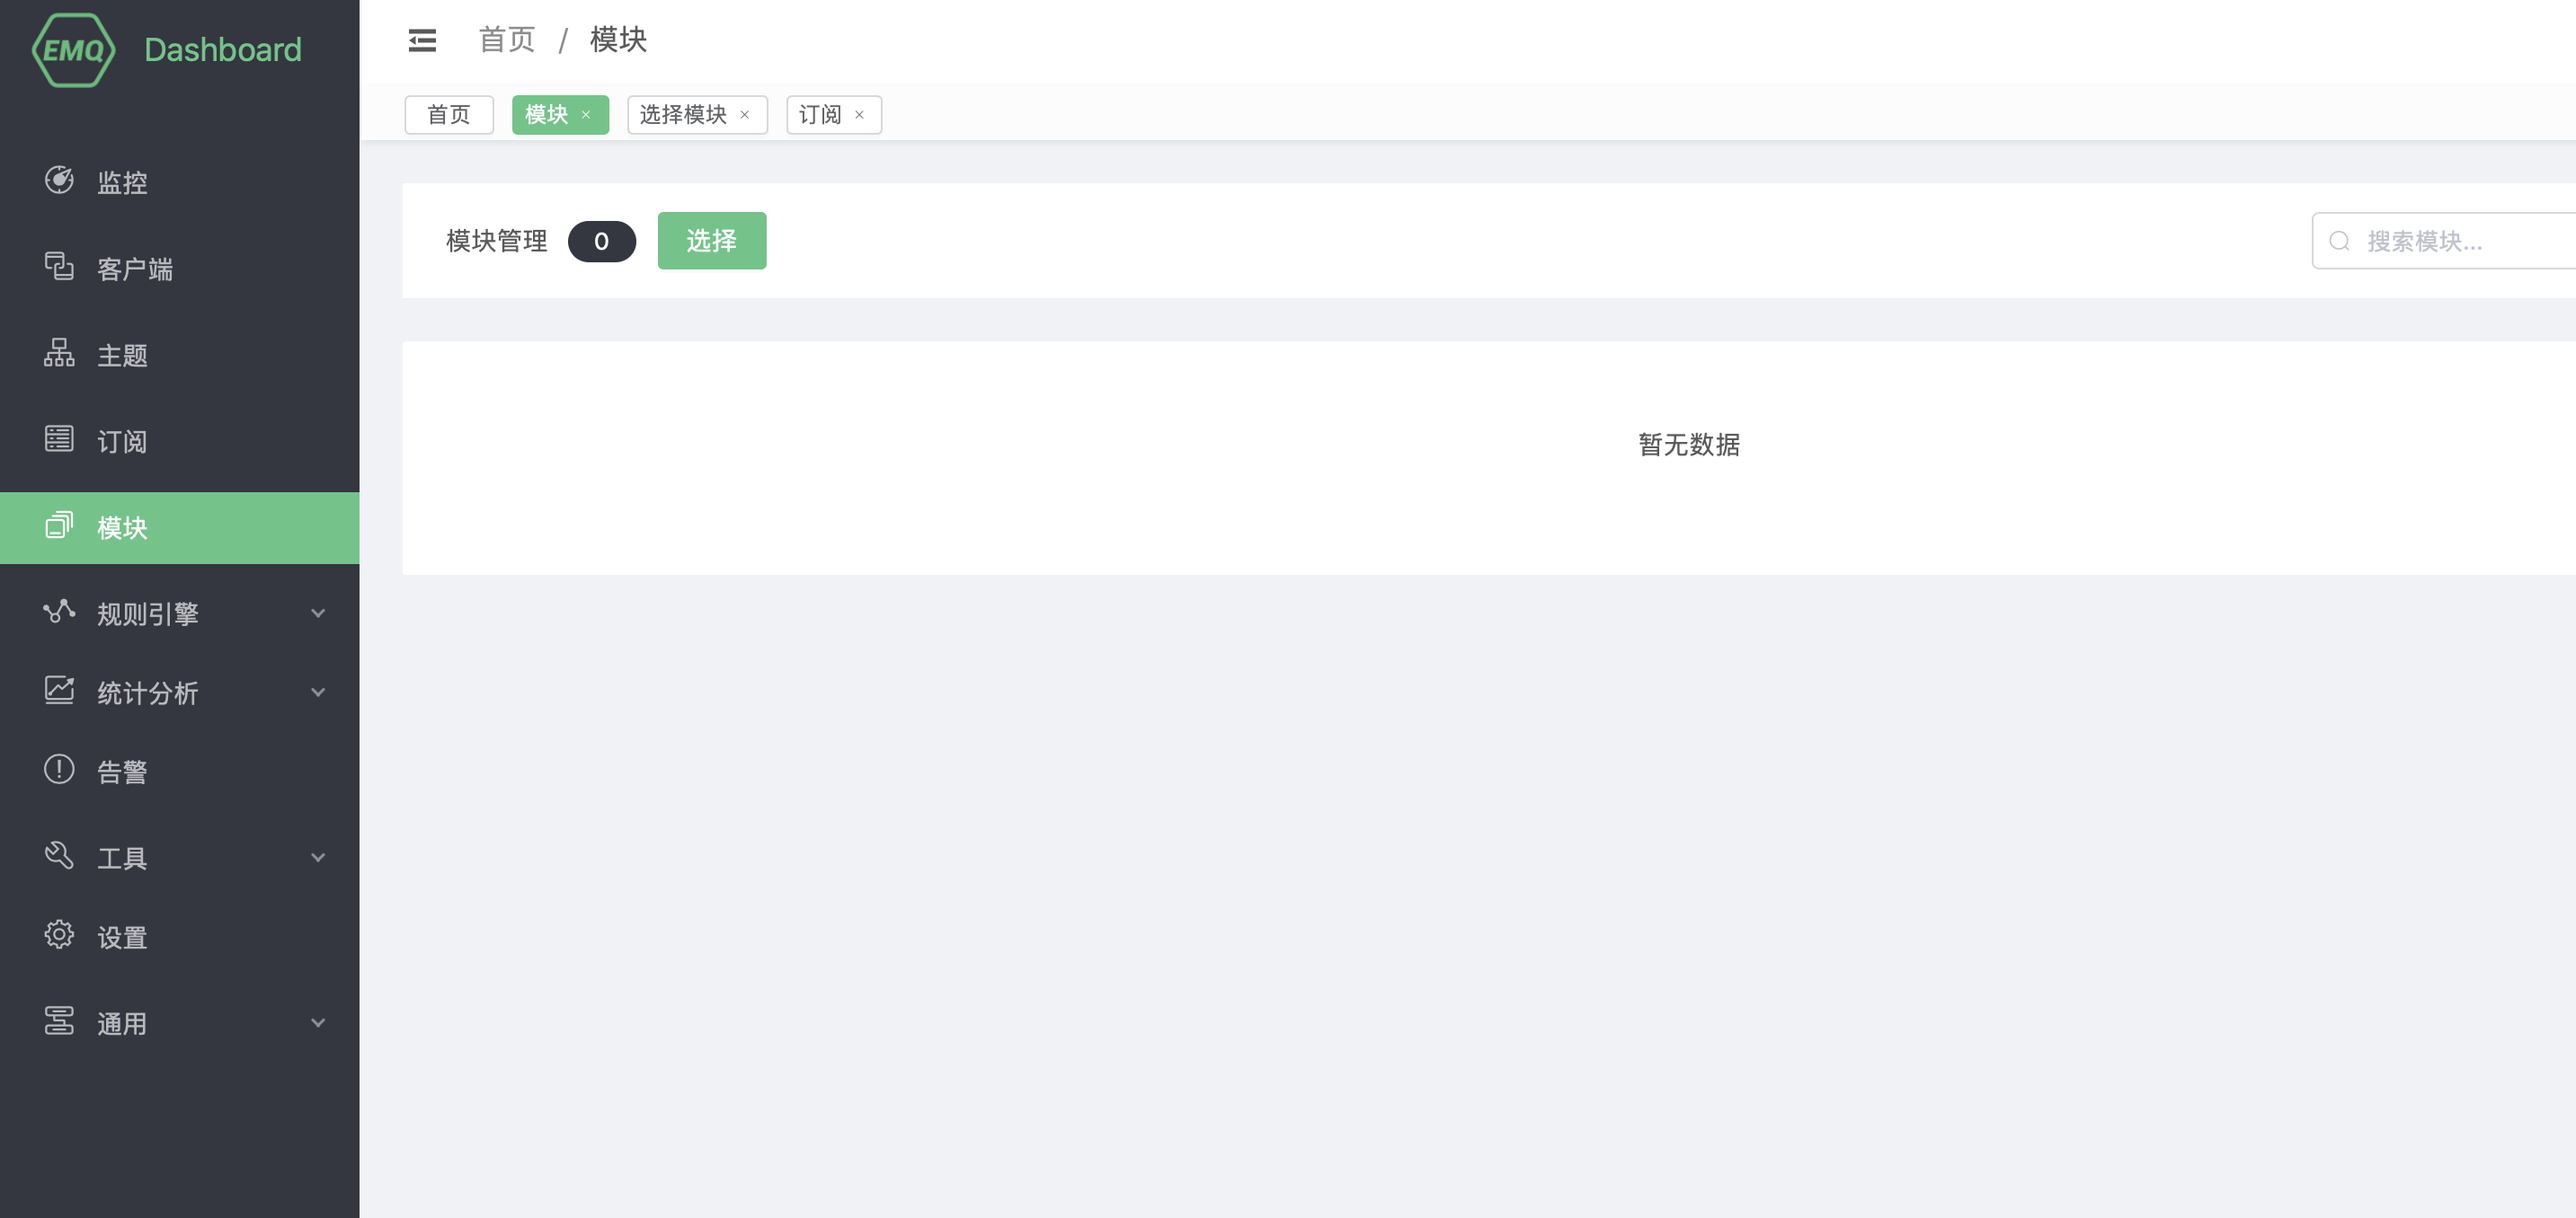
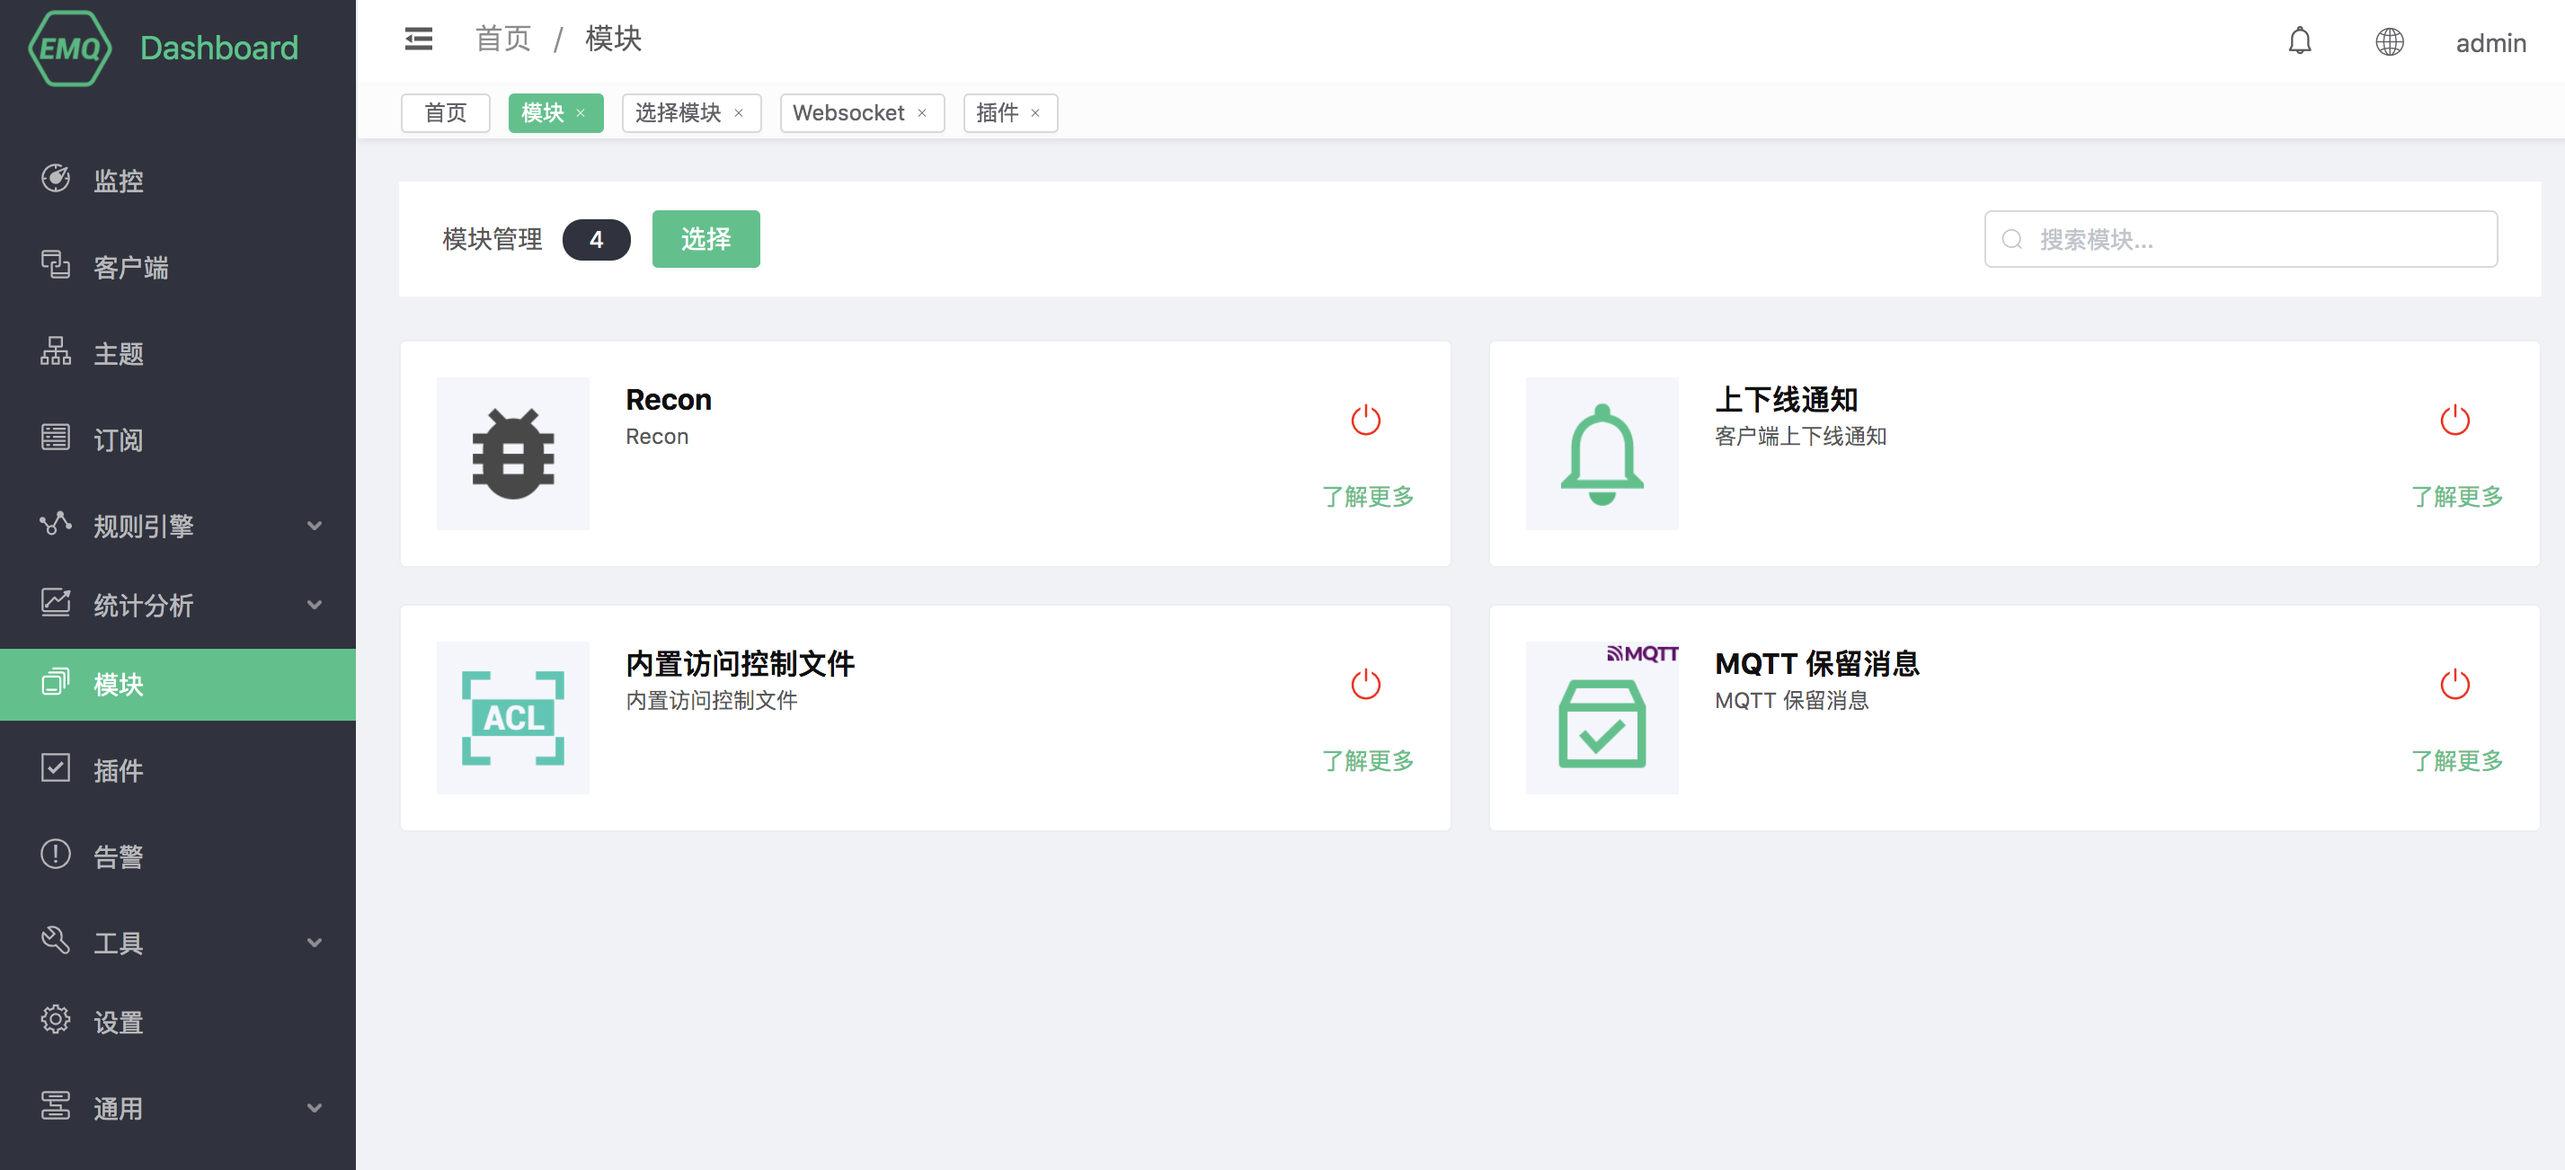
chore(docs): update modules typo

diff --git a/modules/retainer.md b/modules/retainer.md
@@ -6,25 +6,17 @@
 
 当客户端建立订阅时，如果服务端存在主题匹配的保留消息，则这些保留消息将被立即发送给该客户端。借助保留消息，新的订阅者能够立即获取最近的状态，而不需要等待无法预期的时间，这在很多场景下非常重要的。
 
-## 开启保留消息功能
+## 创建模块
 
-通过 dashboard 页面可以开启保留消息模块
+内置访问控制模块默认启动，可以通过dashboard页面进行停止和更新。
 
-打开 [EMQ X Dashboard](http://127.0.0.1:18083/)，并登陆，点击左侧的 “模块” 选项卡，选择添加
+打开 [EMQ X Dashboard](http://127.0.0.1:18083/#/modules)，点击左侧的 “模块” 选项卡：
 
 ![image-20200927213049265](./assets/modules.png)
-
-选择保留消息模块
-
-![image-20200927213049265](./assets/retained_1.png)
 
 配置相关参数
 
 ![image-20200927213049265](./assets/retained_2.png)
-
-点击添加后，模块添加完成
-
-![image-20200927213049265](./assets/retained_3.png)
 
 ## 保留消息配置简介
 

diff --git a/modules/tcp_protocol.md b/modules/tcp_protocol.md
@@ -22,11 +22,9 @@ EMQ X 提供 **emqx-tcp** 模块作为一个靠近端侧的一个接入模块，
 2. 平台侧，主体是 emqx-tcp 模块和  EMQ X 系统。emqx-tcp 负责报文的编解码，代理订阅下行主题。实现将上行消息转为 EMQ X 系统中的 MQTT 消息 PUBLISH 到整个系统中；将下行的 MQTT 消息转化为 TCP 私有协议的报文结构，下发到终端。
 3. 其它侧，可以对 2 中出现的上行的 PUBLISH 消息的主题进行订阅，以接收上行消息。或对发布消息到具体的下行的主题，以发送数据到终端侧。
 
-## TCP 私有协议接入网关启动方式
+## 创建模块
 
-通过dashboard页面可以开启 TCP 私有协议接入网关
-
-打开 [EMQ X Dashboard](http://127.0.0.1:18083/#/rules)，点击左侧的 “模块” 选项卡，选择添加
+打开 [EMQ X Dashboard](http://127.0.0.1:18083/#/modules)，点击左侧的 “模块” 选项卡，选择添加：
 
 ![image-20200927213049265](./assets/modules.png)
 

diff --git a/modules/presence.md b/modules/presence.md
@@ -1,20 +1,13 @@
 # 上下线通知
 EMQ X 的上下线系统消息通知功能在客户端连接成功或者客户端断开连接，自动发送一条系统主题的消息, EMQ X 默认开启上下线通知模块。
 
-## 上下线消息通知
-通过 dashboard 页面可以开启 上下线通知 控制模块
+## 创建模块
 
-打开 [EMQ X Dashboard](http://127.0.0.1:18083/)，并登陆，点击左侧的 “模块” 选项卡，选择添加
+上下线通知模块默认启动，可以通过dashboard页面进行启动和停止。
+
+打开 [EMQ X Dashboard](http://127.0.0.1:18083/#/modules)，点击左侧的 “模块” 选项卡：
 
 ![image-20200927213049265](./assets/modules.png)
-
-选择 上下线通知 模块
-
-![image-20200927213049265](./assets/mod_presence1.png)
-
-上下线通知不需要配置任何参数，直接点击添加后，模块添加完成
-
-![image-20200927213049265](./assets/mod_presence2.png)
 
 ## 上下线消息通知格式
 

diff --git a/modules/psk_authentication.md b/modules/psk_authentication.md
@@ -1,1 +1,35 @@
 # PSK 认证
+
+如果希望使用 PSK 认证，需要将 [TLS 认证](#auth-tls) 中的 `listener.ssl.external.ciphers` 注释掉，然后配置 `listener.ssl.external.psk_ciphers`：
+
+```bash
+#listener.ssl.external.ciphers = ECDHE-ECDSA-AES256-GCM-SHA384,...
+listener.ssl.external.psk_ciphers = PSK-AES128-CBC-SHA,PSK-AES256-CBC-SHA,PSK-3DES-EDE-CBC-SHA,PSK-RC4-SHA
+
+```
+
+## 创建模块
+
+打开 [EMQ X Dashboard](http://127.0.0.1:18083/#/modules)，点击左侧的 “模块” 选项卡，选择添加：
+
+![image-20200927213049265](./assets/modules.png)
+
+选择 PSK 认证
+
+![image-20200927213049265](./assets/auth_psk1.png)
+
+配置相关参数
+
+![image-20200927213049265](./assets/auth_psk2.png)
+
+点击添加后，模块添加完成
+
+![image-20200927213049265](./assets/auth_psk3.png)
+
+
+PSK 的配置文件为 `psk.txt`，使用冒号`:` 分隔 PSK ID 和 PSK：
+
+```bash
+client1:1234
+client2:abcd
+```

diff --git a/modules/exproto.md b/modules/exproto.md
@@ -108,7 +108,7 @@ service ConnectionHandler {
 其中各个语言的 gRPC 框架可参考：[grpc-ecosystem/awesome-grpc](https://github.com/grpc-ecosystem/awesome-grpc)
 
 
-## 配置
+## ## 创建模块
 
 成功部署 gRPC 服务后，通过 dashboard 页面可以开启多语言扩展协议接入模块，并配置以下三部分的内容，即可成功使用：
 
@@ -116,7 +116,7 @@ service ConnectionHandler {
 2. 配置 **监听器(Listener)**，提供 TCP/UDP/SSL/DTLS 的地址监听。用于监听、接收设备的连接。
 3. 为每个监听器指定一个 `ConnectionHandler` 的服务地址。用于发送各种事件回调到用户的服务。
 
-打开 EMQ X Dashboard，点击左侧的 “模块” 选项卡，选择添加
+打开 [EMQ X Dashboard](http://127.0.0.1:18083/#/modules)，点击左侧的 “模块” 选项卡，选择添加：
 
 ![Modules](assets/modules.png)
 

diff --git a/modules/jt808_protocol.md b/modules/jt808_protocol.md
@@ -22,11 +22,9 @@
 2. 平台侧：emqx-jt808 将报文解码后执行 注册/鉴权、或将数据报文 PUBLISH 到特定的主题上；代理订阅下行主题，将下行的 PUBLISH 消息转化为 JT/T 808 协议的报文结构，下发到终端。
 3. 其它侧，可以对 2 中出现的上行的 PUBLISH 消息的主题进行订阅，以接收上行消息。或对发布消息到具体的下行的主题，以发送数据到终端侧。
 
-## JT/T808 协议接入网关启动方式
+## 创建模块
 
-通过dashboard页面可以开启 JT/T808 协议接入网关
-
-打开 [EMQ X Dashboard](http://127.0.0.1:18083/#/rules)，点击左侧的 “模块” 选项卡，选择添加:
+打开 [EMQ X Dashboard](http://127.0.0.1:18083/#/modules)，点击左侧的 “模块” 选项卡，选择添加：
 
 ![image-20200927213049265](./assets/modules.png)
 

diff --git a/modules/internal_acl.md b/modules/internal_acl.md
@@ -2,23 +2,15 @@
 
 内置 ACL 通过文件设置规则，使用上足够简单轻量，适用于规则数量可预测、无变动需求或变动较小的项目。
 
-通过dashboard页面可以开启 内置 ACL 访问控制模块
+## 创建模块
 
-打开 [EMQ X Dashboard](http://127.0.0.1:18083/#/rules)，点击左侧的 “模块” 选项卡，选择添加
+内置访问控制模块默认启动，可以通过dashboard页面进行停止和更新。
 
 ![image-20200927213049265](./assets/modules.png)
-
-选择 内置 ACL 访问控制模块
-
-![image-20200927213049265](./assets/acl_file2.png)
 
 配置相关参数
 
 ![image-20200927213049265](./assets/acl_file3.png)
-
-点击添加后，模块添加完成
-
-![image-20200927213049265](./assets/acl_file4.png)
 
 ## 定义 ACL
 

diff --git a/modules/exhook.md b/modules/exhook.md
@@ -113,11 +113,11 @@ service HookProvider {
 其中各个语言的 gRPC 框架可参考：[grpc-ecosystem/awesome-grpc](https://github.com/grpc-ecosystem/awesome-grpc)
 
 
-## 配置
+## 创建模块
 
 在成功部署 `HookProvider` 服务后，通过 dashboard 页面可以开启多语言钩子扩展模块，并配置其服务地址即可正常使用。
 
-打开 EMQ X Dashboard，点击左侧的 “模块” 选项卡，选择添加
+打开 [EMQ X Dashboard](http://127.0.0.1:18083/#/modules)，点击左侧的 “模块” 选项卡，选择添加：
 
 ![Modules](./assets/modules.png)
 

diff --git a/modules/http_authentication.md b/modules/http_authentication.md
@@ -2,9 +2,9 @@
 
 HTTP 认证/访问控制使用外部自建 HTTP 应用认证数据源，根据 HTTP API 返回的数据判定认证结果，能够实现复杂的认证鉴权逻辑和实现复杂的 ACL 校验逻辑。
 
-通过dashboard页面可以开启 HTTP 认证/访问控制模块
+## 创建模块
 
-打开 [EMQ X Dashboard](http://127.0.0.1:18083/#/rules)，点击左侧的 “模块” 选项卡，选择添加
+打开 [EMQ X Dashboard](http://127.0.0.1:18083/#/modules)，点击左侧的 “模块” 选项卡，选择添加：
 
 ![image-20200927213049265](./assets/modules.png)
 

diff --git a/modules/ldap_authentication.md b/modules/ldap_authentication.md
@@ -1,10 +1,9 @@
 # LDAP 认证/访问控制
 LDAP 认证/访问控制使用外部 OpenLDAP 服务器作为认证数据源，可以存储大量数据，同时方便与外部设备管理系统集成。
 
-## 配置模块
+## 创建模块
 
-通过dashboard页面可以开启 内置 ACL 访问控制模块
-打开 [EMQ X Dashboard](http://127.0.0.1:18083/#/rules)，点击左侧的 “模块” 选项卡，选择添加
+打开 [EMQ X Dashboard](http://127.0.0.1:18083/#/modules)，点击左侧的 “模块” 选项卡，选择添加：
 
 ![image-20200928161310952](./assets/modules.png)
 

diff --git a/modules/subscription.md b/modules/subscription.md
@@ -2,11 +2,9 @@
 
 EMQ X 的代理订阅功能使得客户端在连接建立时，不需要发送额外的 SUBSCRIBE 报文，便能自动建立用户预设的订阅关系。
 
-## 开启代理订阅功能
+## 创建模块
 
-通过 dashboard 页面可以开启 MQTT 代理订阅 控制模块
-
-打开 [EMQ X Dashboard](http://127.0.0.1:18083/)，并登陆，点击左侧的 “模块” 选项卡，选择添加
+打开 [EMQ X Dashboard](http://127.0.0.1:18083/#/modules)，点击左侧的 “模块” 选项卡，选择添加：
 
 ![image-20200927213049265](./assets/modules.png)
 

diff --git a/modules/topic_rewrite.md b/modules/topic_rewrite.md
@@ -2,11 +2,9 @@
 
 EMQ X 的主题重写功能支持根据用户配置的规则在客户端订阅主题、发布消息、取消订阅的时候将 A 主题重写为 B 主题。
 
-## 开启主题重写功能
+## 创建模块
 
-通过 dashboard 页面可以开启 MQTT 主题重写控制模块
-
-打开 [EMQ X Dashboard](http://127.0.0.1:18083/)，并登陆，点击左侧的 “模块” 选项卡，选择添加
+打开 [EMQ X Dashboard](http://127.0.0.1:18083/#/modules)，点击左侧的 “模块” 选项卡，选择添加：
 
 ![image-20200927213049265](./assets/modules.png)
 
